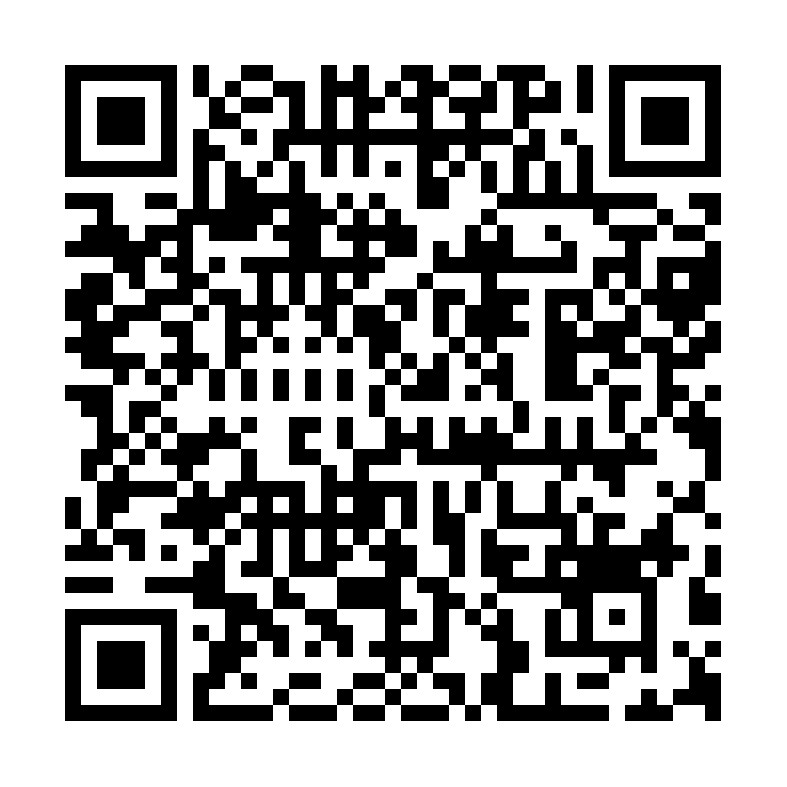
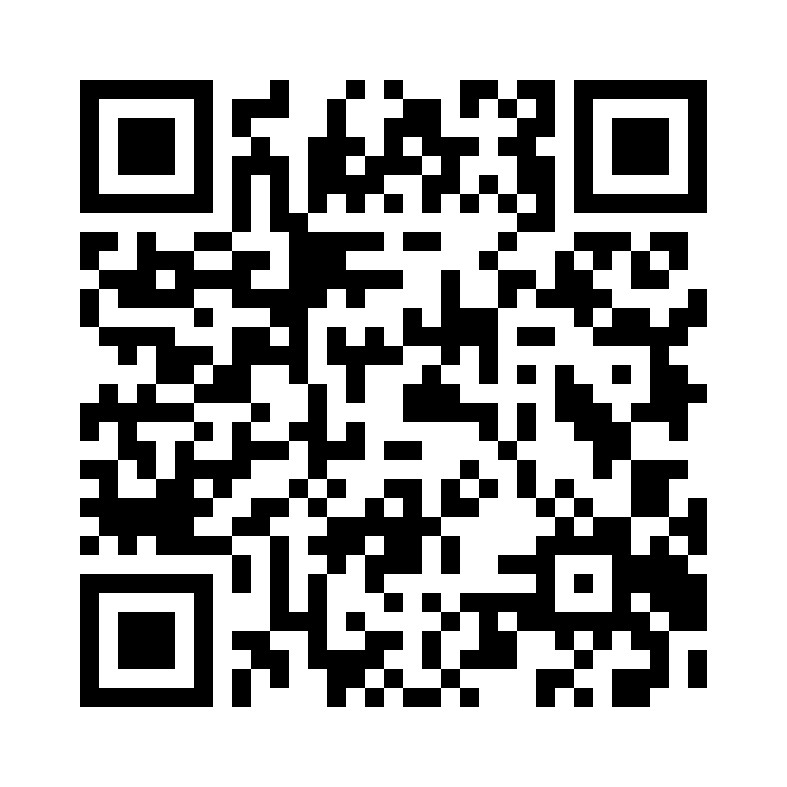
Updated payment info.

diff --git a/2026/index.html b/2026/index.html
@@ -536,7 +536,7 @@
         <section id="platba">
             <h2>Platba</h2>
             <p><span class="highlight">Prosím o doplacení/zaplacení do 12.2.2026!</span></p>
-            <p>Celková cena za ubytování je 18 100 Kč. Na jednoho tedy 1131,25 Kč (16 účastníků). </p>
+            <p>Celková cena za ubytování je 18 100 Kč. Na jednoho tedy 1064,71 Kč (17 účastníků). Počítáno včetně zálohy, tedy pokud jsi platil(a) zálohu, stačí zaplatit 664,71 Kč.</p>
             
             <h3>Pokud jsi NEPLATIL zálohu:</h3>
             <div class="qr-placeholder">
